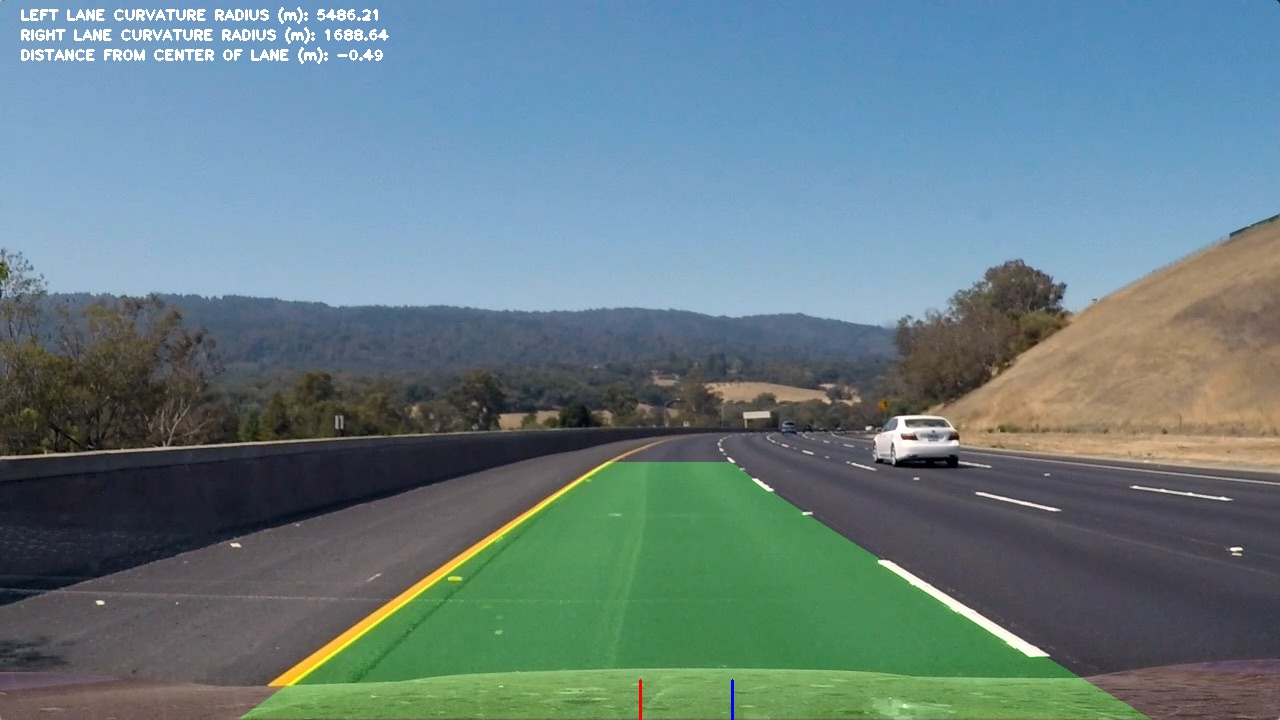
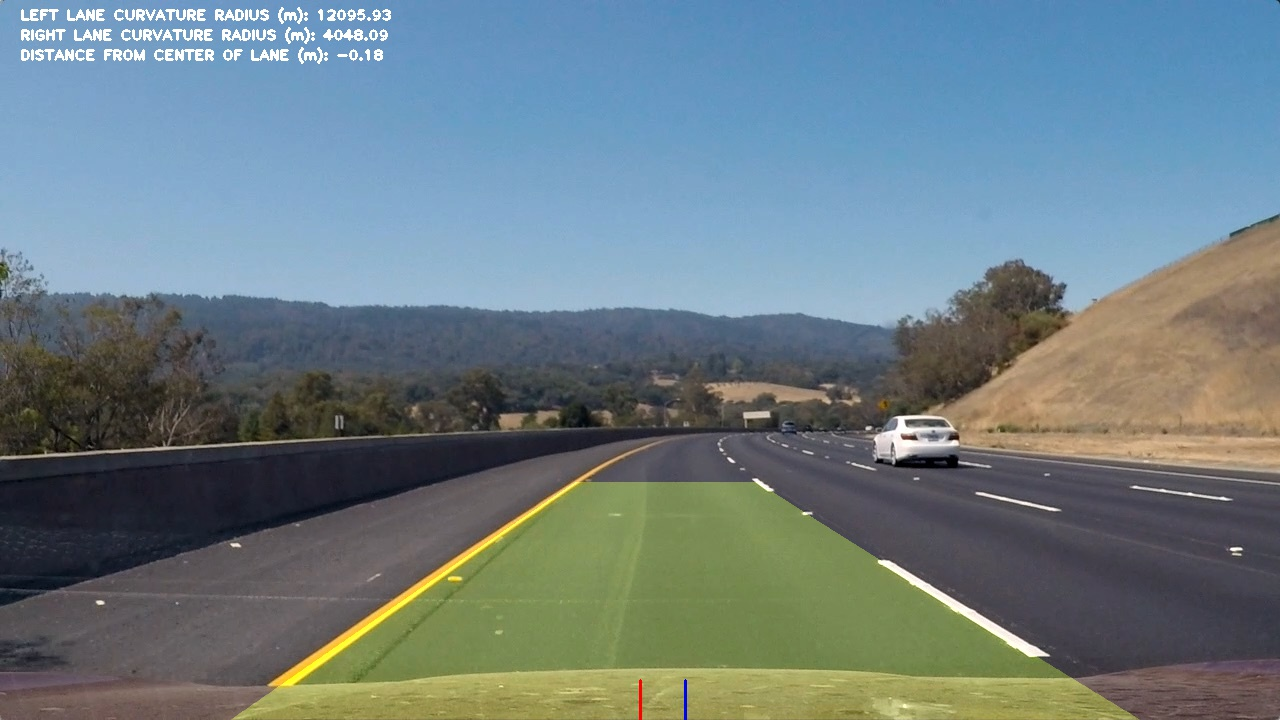
Second submission

Changed region(s): [[0.1875, 0.6417, 0.9062, 1.0], [0.25, 0.0, 0.3125, 0.0611]]

diff --git a/README.md b/README.md
@@ -67,7 +67,6 @@ The distortion correction applied to camera images provides the following result
 The **threshold** method in main.py implements the transformations I chose to implement:
 
 * Gamma adjustment (in order to mitigate the effect of varying colors of the asphalt)
-* Conversion to grayscale and then Sobel filter on the x axis
 * Threshold for the H and S channel in the HLS version of the image
 * Threshold that identifies the yellow patches in the image (mostly left lane)
 * Threshold that identifies the white patches in the image (mostly right lane)
@@ -144,7 +143,7 @@ def threshold(img):
     return combined_binary
 ```
 
-| Undistorted | Binary | 
+| Undistorted | Thresholded | 
 | ------------- |:-------------:| 
 | ![Undistorted][image4] | ![Binary][image6]|
 
@@ -178,7 +177,7 @@ The method that actually implements the transformation is called **warp** and it
 
 I verified that my perspective transform was working as expected by drawing the `src` and `dst` points onto a test image and its warped counterpart to verify that the lines appear parallel in the warped image.
 
-| Binary | Warped | 
+| Thresholded | Warped | 
 | ------------- |:-------------:| 
 | ![Binary][image6] | ![Warped][image5]|
 
@@ -192,12 +191,13 @@ Lane-line pixels are identified in the two following methods in main.py:
 
 The first method implements a full processing with sliding window as described in the Udacity lessons. The second method avoids to do a full scan of the picture and, instead, relies on the areas in the previous image where the lanes have been found previously.
 
-A simple sanity check on the following parameters:
+A simple sanity check on the following parameters makes the **detect_lane_subsequent** fallback on the **detect_lane_full**:
 
 * the difference between the curvature radius of the left and right lanes
-* 
+* average approximate width of the lane in pixels
+* difference between the fit coefficients for the left and right lanes
 
-makes the second method invoke the first (because probably the lane-line pixels detection did not work as expected)
+
 
 | Warped | Polynomials | 
 | ------------- |:-------------:| 
@@ -290,7 +290,11 @@ The thresholding mechanism is still quite unable to cope well with big variation
 
 The pipeline performs acceptably well on the challenge video, but it fails quite bad with the harder challenge video: very sharp bends are not detected correctly.
 
+The pipeline is based on many different parameters (Sobel kernel size, thresholds, etc) and it is quite difficult to find the right combination or, even better, a combination of parameters that can work in any conditions (lights, color of the asphalt, rain, etc)
+
 Something I would like to improve:
 
-* thresholding performances and resilience to different light conditions
+* thresholding performances and resilience to different conditions
+* more robust sanity check
+* rejection of outliers (left or right lane) based on history (e.g. the last 10 lanes detected)
 * overall performances (the pipeline, even on a quite powerful computer, is not fast enough to be used on a real stream coming from a dash camera for example)
